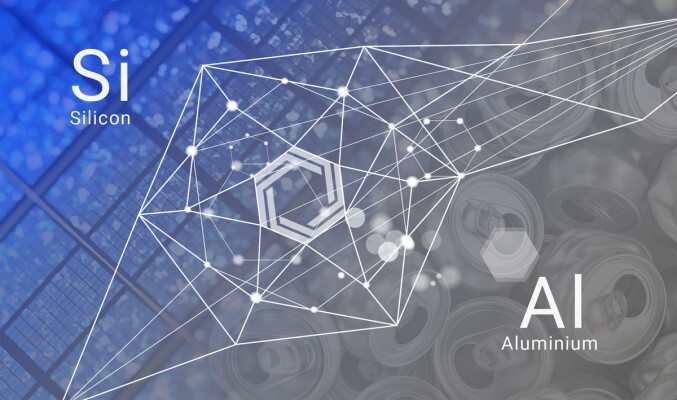
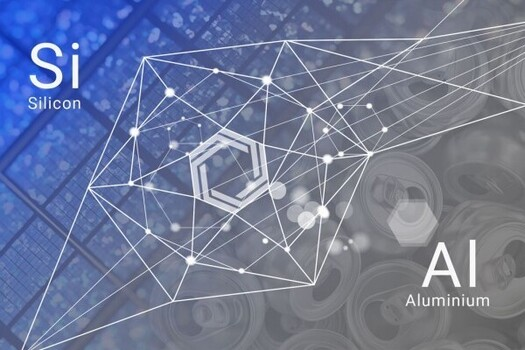
try scaling

diff --git a/public/projects/index.html b/public/projects/index.html
@@ -109,7 +109,7 @@
         
         
     <header class="page-header"><h1>Projects</h1>
-    </header><div id="project-carousel" style="max-height: 400px" class="carousel slide" data-ride="carousel">
+    </header><div id="project-carousel" style="max-height: 300px" class="carousel slide" data-ride="carousel">
   <!-- Indicators -->
   <ol class="carousel-indicators">
 <li data-target="#project-carousel" data-slide-to="0" class="active">
@@ -164,7 +164,7 @@ active
 </div>
 
 
-<h2 style="margin-top:45px;">Maintaining</h2>
+<h2 style="margin-top:65px;">Maintaining</h2>
 
 
     <ul class="project-list">
